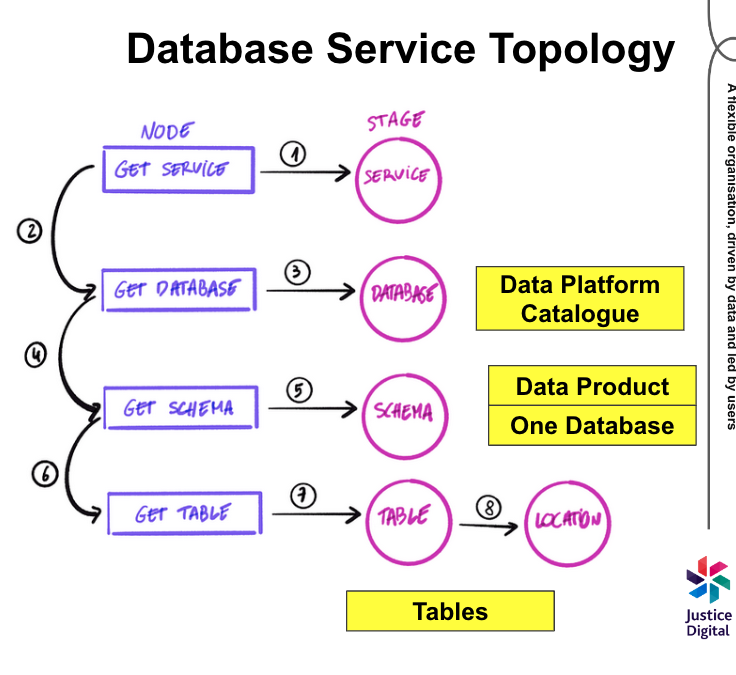
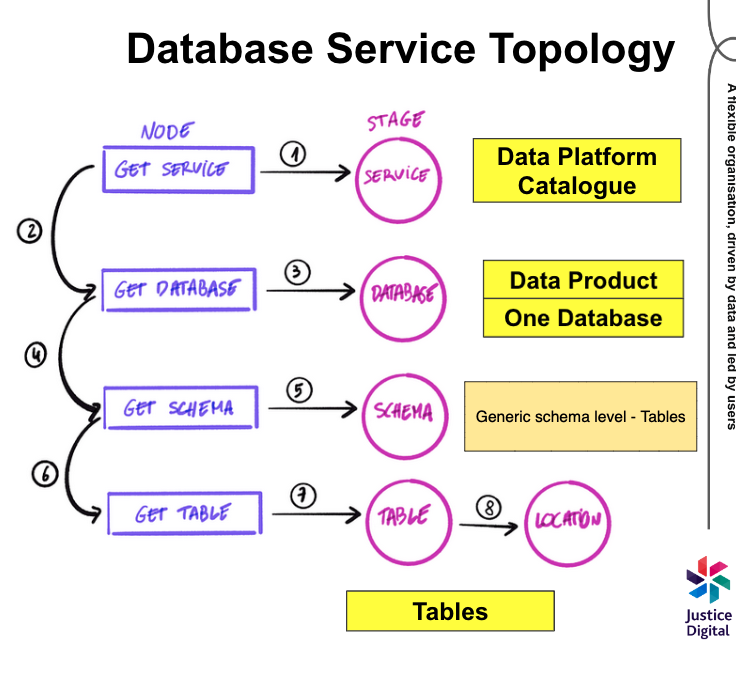
udate readme and diagram

Changed region(s): [[0.625, 0.5289, 0.9688, 0.6844], [0.625, 0.1867, 0.9375, 0.3111], [0.625, 0.3733, 0.9375, 0.4978]]

diff --git a/python-libraries/data-platform-catalogue/README.md b/python-libraries/data-platform-catalogue/README.md
@@ -15,10 +15,9 @@ pip install ministryofjustice-data-platform-catalogue
 
 ## Topology
 
-- Each internal data platform catalogue is mapped to a database in the
-  OpenMetadata catalogue
-- Each data product is mapped to a schema
-- Each table is mapped to a table
+- Each moj data product is mapped to a database in the OpenMetadata catalogue
+- We populate the schema level in openmetdata with a generic entry of `Tables`
+- Each table is mapped to a table in openmetadata
 
 ![Topology diagram](./diagram.png)
 
@@ -39,14 +38,20 @@ client = CatalogueClient(
 assert client.is_healthy()
 
 
-catalogue = CatalogueMetadata(
-  name = "data_platform",
-  description = "All data products hosted on the data platform",
-)
-
 data_product = DataProductMetadata(
     name = "my_data_product",
     description = "bla bla",
+    version = "v1.0.0",
+    owner = "7804c127-d677-4900-82f9-83517e51bb94",
+    email = "justice@justice.gov.uk",
+    retention_period_in_days = 365,
+    domain = "legal-aid",
+    dpia_required = False
+)
+
+data_product_schema = DataProductMetadata(
+    name = "Tables",
+    description = "All the tables contained within my_data_product",
     version = "v1.0.0",
     owner = "7804c127-d677-4900-82f9-83517e51bb94",
     email = "justice@justice.gov.uk",
